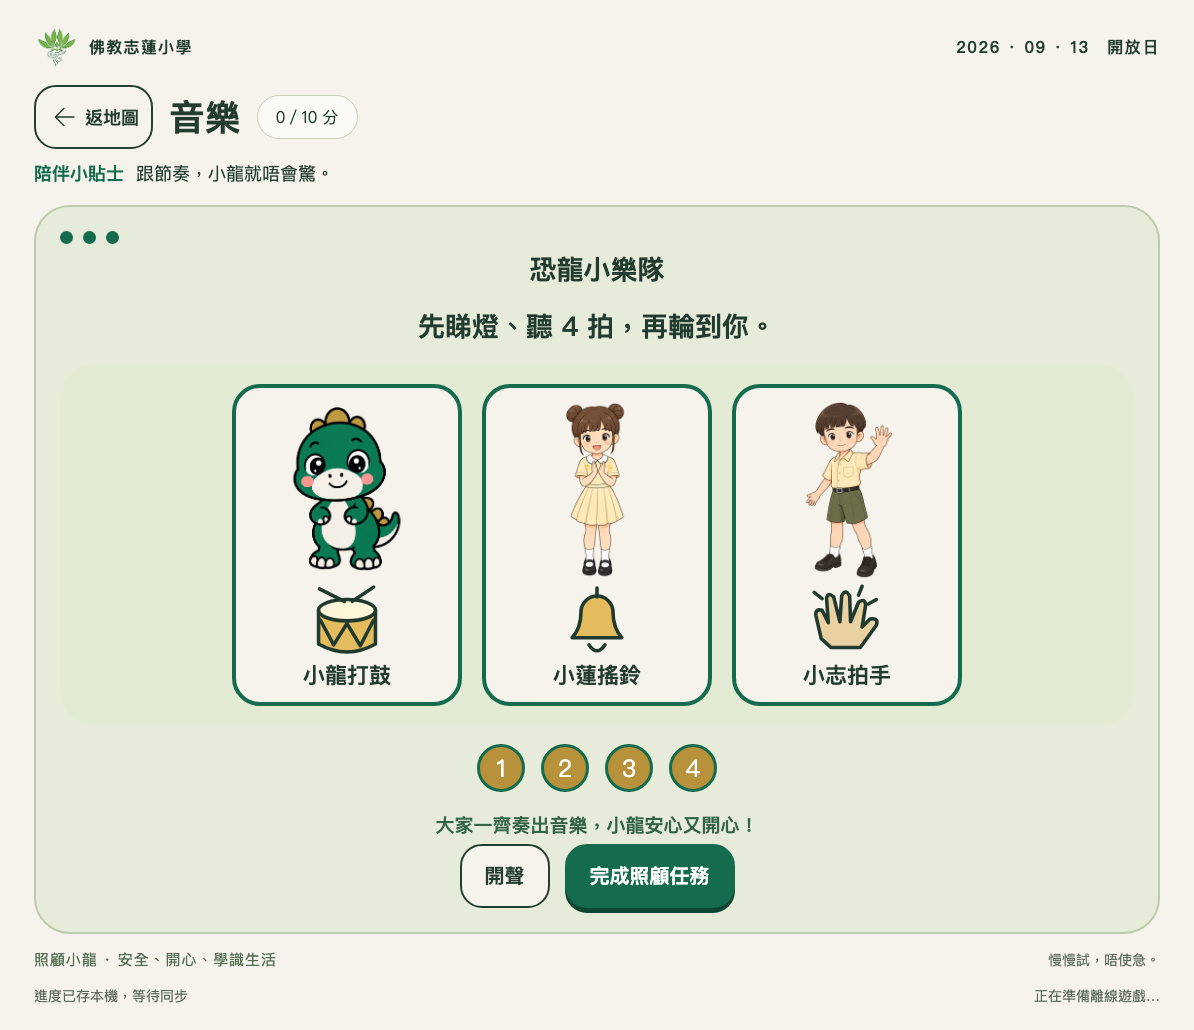
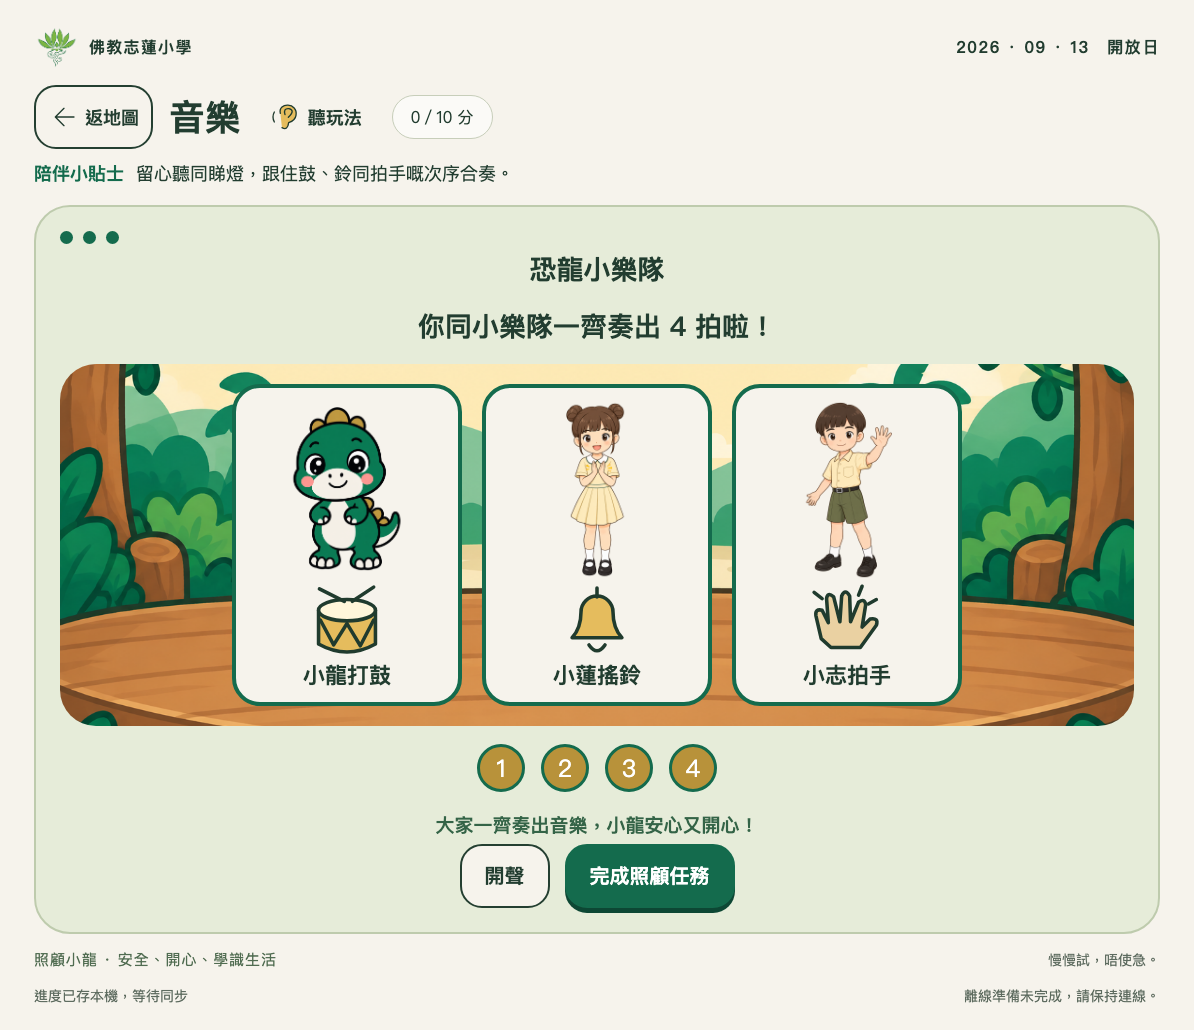
feat: add forest music stage and document pose model license

diff --git a/sw.js b/sw.js
@@ -1,7 +1,7 @@
 // Generated precache manifest. Rebuild whenever local assets change.
-const CACHE='dino-island-b6a5a6f61c4b';
+const CACHE='dino-island-e588b6e10618';
 const BASE=new URL('./',self.location.href);
-const ASSETS=["board/board.css","board/board.js","board/img/board-skin.png","board/index.html","hub/app.js","hub/audio/en/actions/freeze.wav","hub/audio/en/actions/hands.wav","hub/audio/en/actions/jump.wav","hub/audio/en/actions/left.wav","hub/audio/en/actions/right.wav","hub/audio/en/actions/sit.wav","hub/audio/en/actions/stand.wav","hub/audio/yue/actions/freeze.wav","hub/audio/yue/actions/hands.wav","hub/audio/yue/actions/left.wav","hub/audio/yue/actions/right.wav","hub/audio/yue/actions/sit.wav","hub/audio/yue/characters/fire.wav","hub/audio/yue/characters/moon.wav","hub/audio/yue/characters/mountain.wav","hub/audio/yue/characters/sun.wav","hub/audio/yue/characters/water.wav","hub/audio/yue/characters/wood.wav","hub/audio/yue/common/complete.wav","hub/audio/yue/common/hint.wav","hub/audio/yue/common/retry.wav","hub/audio/yue/common/welcome.wav","hub/audio/yue/intro/art.wav","hub/audio/yue/intro/chinese.wav","hub/audio/yue/intro/computing.wav","hub/audio/yue/intro/english.wav","hub/audio/yue/intro/general.wav","hub/audio/yue/intro/humanities.wav","hub/audio/yue/intro/mandarin.wav","hub/audio/yue/intro/math.wav","hub/audio/yue/intro/music.wav","hub/audio/yue/intro/pe.wav","hub/audio/yue/intro/science.wav","hub/audio/zh-CN/greetings/goodbye.wav","hub/audio/zh-CN/greetings/hello.wav","hub/audio/zh-CN/greetings/morning.wav","hub/audio/zh-CN/greetings/please.wav","hub/audio/zh-CN/greetings/thanks.wav","hub/audio/zh-CN/greetings/welcome.wav","hub/certificate.js","hub/games.js","hub/img/chars/dino-baby-eat.png","hub/img/chars/dino-baby-sleep.png","hub/img/chars/dino-baby.png","hub/img/chars/landmark-hatch.png","hub/img/chars/landmark-longneck.png","hub/img/chars/landmark-triceratops.png","hub/img/chars/xiaolian-clap.png","hub/img/chars/xiaolian-color.png","hub/img/chars/xiaolian-highfive.png","hub/img/chars/xiaolian-point.png","hub/img/chars/xiaolian-welcome.png","hub/img/chars/xiaolian-write.png","hub/img/chars/xiaozhi-highfive.png","hub/img/chars/xiaozhi-jump.png","hub/img/chars/xiaozhi-run.png","hub/img/chars/xiaozhi-sit.png","hub/img/chars/xiaozhi-step.png","hub/img/chars/xiaozhi-stretch.png","hub/img/chars/xiaozhi-tablet.png","hub/img/chars/xiaozhi-welcome.png","hub/img/games/art/egg-studio.png","hub/img/games/general/bedtime.png","hub/img/games/general/daytime.png","hub/img/games/general/morning.png","hub/img/games/humanities/river-centre.png","hub/img/games/humanities/safe-forest.png","hub/img/games/humanities/volcano-edge.png","hub/img/games/math/feeding-garden.png","hub/img/games/science/excavation.png","hub/img/map/island-path.png","hub/img/ui/cert-frame.png","hub/index.html","hub/modules/art.js","hub/modules/chinese-scenes.js","hub/modules/computing.js","hub/modules/fossil-art.js","hub/modules/general.js","hub/modules/humanities.js","hub/modules/mandarin.js","hub/modules/math.js","hub/modules/motion.js","hub/modules/music.js","hub/modules/science.js","hub/park-guides.js","index.html","setup/index.html","shared/certificate-link.js","shared/config.js","shared/core.js","shared/game-clock-gate.js","shared/game-state.js","shared/icons.js","shared/img/school-logo.png","shared/models/pose-landmarker-lite-v1.task","shared/network.js","shared/offline.js","shared/pose-actions.js","shared/pose-camera.js","shared/qrcode.js","shared/recorder.js","shared/sequence.js","shared/storage.js","shared/style.css","shared/vendor/mediapipe/vision-bundle.js","shared/vendor/mediapipe/wasm/vision_wasm_internal.js","shared/vendor/mediapipe/wasm/vision_wasm_internal.wasm","shared/vendor/mediapipe/wasm/vision_wasm_nosimd_internal.js","shared/vendor/mediapipe/wasm/vision_wasm_nosimd_internal.wasm","shared/voice.js","hub/","board/","setup/"].map(p=>new URL(p,BASE).href);
+const ASSETS=["board/board.css","board/board.js","board/img/board-skin.png","board/index.html","hub/app.js","hub/audio/en/actions/freeze.wav","hub/audio/en/actions/hands.wav","hub/audio/en/actions/jump.wav","hub/audio/en/actions/left.wav","hub/audio/en/actions/right.wav","hub/audio/en/actions/sit.wav","hub/audio/en/actions/stand.wav","hub/audio/yue/actions/freeze.wav","hub/audio/yue/actions/hands.wav","hub/audio/yue/actions/left.wav","hub/audio/yue/actions/right.wav","hub/audio/yue/actions/sit.wav","hub/audio/yue/characters/fire.wav","hub/audio/yue/characters/moon.wav","hub/audio/yue/characters/mountain.wav","hub/audio/yue/characters/sun.wav","hub/audio/yue/characters/water.wav","hub/audio/yue/characters/wood.wav","hub/audio/yue/common/complete.wav","hub/audio/yue/common/hint.wav","hub/audio/yue/common/retry.wav","hub/audio/yue/common/welcome.wav","hub/audio/yue/intro/art.wav","hub/audio/yue/intro/chinese.wav","hub/audio/yue/intro/computing.wav","hub/audio/yue/intro/english.wav","hub/audio/yue/intro/general.wav","hub/audio/yue/intro/humanities.wav","hub/audio/yue/intro/mandarin.wav","hub/audio/yue/intro/math.wav","hub/audio/yue/intro/music.wav","hub/audio/yue/intro/pe.wav","hub/audio/yue/intro/science.wav","hub/audio/zh-CN/greetings/goodbye.wav","hub/audio/zh-CN/greetings/hello.wav","hub/audio/zh-CN/greetings/morning.wav","hub/audio/zh-CN/greetings/please.wav","hub/audio/zh-CN/greetings/thanks.wav","hub/audio/zh-CN/greetings/welcome.wav","hub/certificate.js","hub/games.js","hub/img/chars/dino-baby-eat.png","hub/img/chars/dino-baby-sleep.png","hub/img/chars/dino-baby.png","hub/img/chars/landmark-hatch.png","hub/img/chars/landmark-longneck.png","hub/img/chars/landmark-triceratops.png","hub/img/chars/xiaolian-clap.png","hub/img/chars/xiaolian-color.png","hub/img/chars/xiaolian-highfive.png","hub/img/chars/xiaolian-point.png","hub/img/chars/xiaolian-welcome.png","hub/img/chars/xiaolian-write.png","hub/img/chars/xiaozhi-highfive.png","hub/img/chars/xiaozhi-jump.png","hub/img/chars/xiaozhi-run.png","hub/img/chars/xiaozhi-sit.png","hub/img/chars/xiaozhi-step.png","hub/img/chars/xiaozhi-stretch.png","hub/img/chars/xiaozhi-tablet.png","hub/img/chars/xiaozhi-welcome.png","hub/img/games/art/egg-studio.png","hub/img/games/general/bedtime.png","hub/img/games/general/daytime.png","hub/img/games/general/morning.png","hub/img/games/humanities/river-centre.png","hub/img/games/humanities/safe-forest.png","hub/img/games/humanities/volcano-edge.png","hub/img/games/math/feeding-garden.png","hub/img/games/music/music-stage.png","hub/img/games/science/excavation.png","hub/img/map/island-path.png","hub/img/ui/cert-frame.png","hub/index.html","hub/modules/art.js","hub/modules/chinese-scenes.js","hub/modules/computing.js","hub/modules/fossil-art.js","hub/modules/general.js","hub/modules/humanities.js","hub/modules/mandarin.js","hub/modules/math.js","hub/modules/motion.js","hub/modules/music.js","hub/modules/science.js","hub/park-guides.js","index.html","setup/index.html","shared/certificate-link.js","shared/config.js","shared/core.js","shared/game-clock-gate.js","shared/game-state.js","shared/icons.js","shared/img/school-logo.png","shared/models/pose-landmarker-lite-v1.task","shared/network.js","shared/offline.js","shared/pose-actions.js","shared/pose-camera.js","shared/qrcode.js","shared/recorder.js","shared/sequence.js","shared/storage.js","shared/style.css","shared/vendor/mediapipe/vision-bundle.js","shared/vendor/mediapipe/wasm/vision_wasm_internal.js","shared/vendor/mediapipe/wasm/vision_wasm_internal.wasm","shared/vendor/mediapipe/wasm/vision_wasm_nosimd_internal.js","shared/vendor/mediapipe/wasm/vision_wasm_nosimd_internal.wasm","shared/voice.js","hub/","board/","setup/"].map(p=>new URL(p,BASE).href);
 self.addEventListener('install',e=>e.waitUntil(caches.open(CACHE).then(c=>c.addAll(ASSETS))));
 self.addEventListener('activate',e=>e.waitUntil(Promise.all([caches.keys().then(keys=>Promise.all(keys.filter(k=>k.startsWith('dino-island-')&&k!==CACHE).map(k=>caches.delete(k)))),self.clients.claim()])));
 self.addEventListener('message',e=>{if(e.data?.type!=='CHECK_OFFLINE'||!e.ports[0])return;e.waitUntil(caches.open(CACHE).then(async c=>{const present=await Promise.all(ASSETS.map(url=>c.match(url)));e.ports[0].postMessage({type:'OFFLINE_STATUS',version:CACHE,complete:present.every(Boolean),missing:present.filter(r=>!r).length,total:ASSETS.length});}).catch(()=>e.ports[0].postMessage({type:'OFFLINE_STATUS',complete:false,missing:ASSETS.length,total:ASSETS.length})));});

diff --git a/shared/style.css b/shared/style.css
@@ -40,7 +40,7 @@
 .expedition-intro{text-align:center;font-size:26px;padding:20px}.expedition-intro>.icon{width:150px;height:150px}.expedition-camp{position:relative;overflow:hidden;display:flex;justify-content:center;align-items:end;gap:18px;min-height:280px;padding:28px 16px;background:#e0ebce url(../hub/img/games/humanities/safe-forest.png) center/cover;border-radius:40px}.expedition-camp>.character{width:150px;height:190px;object-fit:contain}.expedition-improvements{display:flex;align-items:end;gap:12px}.expedition-improvements>span{background:#f6f3eceb;border-radius:18px;padding:8px;display:flex;align-items:center;flex-direction:column;font-size:20px}.expedition-improvements .icon{width:90px;height:90px}.expedition-options .choice{width:220px;height:160px;display:flex;flex-direction:column;align-items:center;justify-content:center;font-size:24px}.expedition-options .icon{width:100px;height:100px}.expedition-hint{outline:6px solid #b8923a;outline-offset:3px}
 @media(max-width:600px){.expedition-camp{gap:4px;padding:8px;min-height:165px}.expedition-camp>.character{width:65px;height:140px}.expedition-improvements{gap:4px}.expedition-improvements>span{font-size:13px;max-width:58px;text-align:center}.expedition-improvements .icon{width:52px;height:52px}.expedition-options{gap:8px}.expedition-options .choice{width:92px;min-width:80px;height:140px;font-size:17px;padding:6px}.expedition-options .icon{width:64px;height:64px}}
 
-.band-stage{display:flex;justify-content:center;gap:20px;padding:20px;background:#e4ebd4;border-radius:36px}.band-player{display:flex;flex-direction:column;align-items:center;width:230px;background:#f6f3ec;border:4px solid #146b4d;border-radius:28px;padding:12px;font-size:22px;transition:background .1s,transform .1s}.band-player:disabled{opacity:1;cursor:default}.band-player>.character{width:140px;height:180px;object-fit:contain}.band-instrument .icon{width:80px;height:80px}.band-lit{background:#f8d36e!important;transform:translateY(-7px);box-shadow:0 0 0 6px #b8923a}.band-hint{outline:6px dashed #b8923a;outline-offset:3px}.band-progress{display:flex;justify-content:center;gap:16px;margin:18px}.band-progress>span{display:grid;place-items:center;width:48px;height:48px;border:3px solid #146b4d;border-radius:50%;font-size:24px}.band-progress>.done{background:#b8923a;color:white}
+.band-stage{display:flex;justify-content:center;gap:20px;padding:20px;background:#e4ebd4 url('../hub/img/games/music/music-stage.png') center/cover no-repeat;border-radius:36px}.band-player{display:flex;flex-direction:column;align-items:center;width:230px;background:#f6f3ec;border:4px solid #146b4d;border-radius:28px;padding:12px;font-size:22px;transition:background .1s,transform .1s}.band-player:disabled{opacity:1;cursor:default}.band-player>.character{width:140px;height:180px;object-fit:contain}.band-instrument .icon{width:80px;height:80px}.band-lit{background:#f8d36e!important;transform:translateY(-7px);box-shadow:0 0 0 6px #b8923a}.band-hint{outline:6px dashed #b8923a;outline-offset:3px}.band-lit .band-instrument{animation:band-tap .4s ease}.band-lit[data-band="1"] .band-instrument{animation:band-ring .4s ease}.band-lit>.character{animation:band-bounce .4s ease}.band-celebrating .character{animation:band-bounce .65s ease 2}.band-celebrating [data-band="1"] .character{animation-delay:.12s}.band-celebrating [data-band="2"] .character{animation-delay:.24s}@keyframes band-tap{50%{transform:scale(.88) translateY(5px)}}@keyframes band-ring{25%{transform:rotate(-17deg)}75%{transform:rotate(17deg)}}@keyframes band-bounce{50%{transform:translateY(-9px)}}.band-progress{display:flex;justify-content:center;gap:16px;margin:18px}.band-progress>span{display:grid;place-items:center;width:48px;height:48px;border:3px solid #146b4d;border-radius:50%;font-size:24px}.band-progress>.done{background:#b8923a;color:white}
 @media(max-width:600px){.band-stage{gap:8px;padding:10px}.band-player{width:30%;font-size:16px;padding:6px;border-width:3px}.band-player>.character{width:80px;max-width:100%;height:125px}.band-instrument .icon{width:55px;height:55px}}
 
 .egg-studio{display:flex;justify-content:center;align-items:end;gap:20px;background:#f6f3ec url('../hub/img/games/art/egg-studio.png') center/cover no-repeat;border-radius:32px;padding:12px}.egg-guide{width:135px;height:220px;object-fit:contain}.egg-artwork{width:280px;position:relative}.egg-artwork>svg{display:block;width:100%;touch-action:none}.egg-crack{opacity:0}.art-colors,.art-tools{display:flex;justify-content:center;gap:12px;margin:14px}.art-colors button{width:64px;height:64px;min-width:64px;border-radius:50%;border:3px solid #203b2e;font-size:32px;color:#203b2e}.art-modes button{display:flex;align-items:center;gap:8px}.art-modes svg{width:38px;height:38px}.art-tools button{width:100px;min-height:84px;display:flex;flex-direction:column;align-items:center;font-size:18px}.art-tools svg{width:46px;height:46px}.art-modes [aria-pressed=true],.art-tools [aria-pressed=true]{background:#f5d479;outline:3px solid #b8923a}.art-colors [aria-pressed=true]{outline:4px solid #b8923a;outline-offset:3px}.is-hatching{animation:egg-shake .35s ease-in-out infinite;filter:drop-shadow(0 0 18px #f0cd62)}.is-hatching .egg-crack{animation:egg-crack 2s forwards}.hatch-dino{clip-path:inset(0 0 30% 0);position:absolute;width:80%;height:85%;object-fit:contain;left:10%;top:0;animation:egg-emerge .7s ease-out}.has-hatched>svg{clip-path:polygon(0 53%,15% 49%,29% 56%,42% 48%,55% 57%,68% 48%,85% 55%,100% 50%,100% 100%,0 100%);position:relative}.has-hatched .egg-crack{opacity:1}

diff --git a/hub/modules/music.js b/hub/modules/music.js
@@ -19,7 +19,7 @@ export function mountMusic(root,state,save,finish){
  function flash(i){const button=root.querySelector(`[data-band="${i}"]`);button?.classList.add('band-lit');tone(i);later(()=>button?.classList.remove('band-lit'),400);}
  function render(){
   const pattern=patterns[state.round];
-  root.innerHTML=`<div class="rounds" aria-label="第 ${state.round+1} 回合，共三回合">${patterns.map((_,i)=>`<span class="round-dot ${i<=state.round?'done':''}"></span>`).join('')}</div><h2 class="game-instruction">恐龍小樂隊</h2><p class="game-instruction">先睇燈、聽 ${pattern.length} 拍，再輪到你。</p><div class="band-stage">${['dino-baby','xiaolian-clap','xiaozhi-highfive'].map((file,i)=>`<button class="band-player" data-band="${i}" aria-label="${names[i]}" disabled><img class="character" src="img/chars/${file}.png" alt="${names[i]}"><span class="band-instrument">${instrument(i)}</span><span>${names[i]}</span></button>`).join('')}</div><div class="band-progress" aria-label="跟拍進度">${pattern.map((_,i)=>`<span data-beat="${i}" class="${state.roundDone?'done':''}">${i+1}</span>`).join('')}</div><p class="feedback" role="status">${state.roundDone?'大家一齊奏出音樂，小龍安心又開心！':'按示範開始，燈光會話你知輪到邊個。'}</p><div class="actions"><button id="band-demo" ${state.roundDone?'hidden':''}>睇燈聽示範</button><button id="band-mute" aria-pressed="${state.muted}">${state.muted?'開聲':'關聲'}</button>${!state.roundDone&&hintLevel(state.attempts)==='guided'?'<button id="band-help">一步一步跟燈</button>':''}${state.roundDone?`<button class="primary" id="band-next">${state.round===2?'完成照顧任務':'下一段音樂'}</button>`:''}</div>`;
+  root.innerHTML=`<div class="rounds" aria-label="第 ${state.round+1} 回合，共三回合">${patterns.map((_,i)=>`<span class="round-dot ${i<=state.round?'done':''}"></span>`).join('')}</div><h2 class="game-instruction">恐龍小樂隊</h2><p class="game-instruction">${state.roundDone?`你同小樂隊一齊奏出 ${pattern.length} 拍啦！`:`先睇燈、聽 ${pattern.length} 拍，再輪到你。`}</p><div class="band-stage ${state.roundDone?'band-celebrating':''}">${['dino-baby','xiaolian-clap','xiaozhi-highfive'].map((file,i)=>`<button class="band-player" data-band="${i}" aria-label="${names[i]}" disabled><img class="character" src="img/chars/${file}.png" alt="${names[i]}"><span class="band-instrument">${instrument(i)}</span><span>${names[i]}</span></button>`).join('')}</div><div class="band-progress" aria-label="跟拍進度">${pattern.map((_,i)=>`<span data-beat="${i}" class="${state.roundDone?'done':''}">${i+1}</span>`).join('')}</div><p class="feedback" role="status">${state.roundDone?'大家一齊奏出音樂，小龍安心又開心！':'按示範開始，燈光會話你知輪到邊個。'}</p><div class="actions"><button id="band-demo" ${state.roundDone?'hidden':''}>睇燈聽示範</button><button id="band-mute" aria-pressed="${state.muted}">${state.muted?'開聲':'關聲'}</button>${!state.roundDone&&hintLevel(state.attempts)==='guided'?'<button id="band-help">一步一步跟燈</button>':''}${state.roundDone?`<button class="primary" id="band-next">${state.round===2?'完成照顧任務':'下一段音樂'}</button>`:''}</div>`;
   root.querySelector('#band-mute').onclick=()=>{state.muted=!state.muted;save();if(state.muted)context?.suspend().catch(()=>{});const b=root.querySelector('#band-mute');b.textContent=state.muted?'開聲':'關聲';b.setAttribute('aria-pressed',String(state.muted));};
   root.querySelector('#band-demo').onclick=()=>demo();
   root.querySelector('#band-help')?.addEventListener('click',()=>demo(true));

diff --git a/docs/GAME-UPDATE-V2.md b/docs/GAME-UPDATE-V2.md
@@ -208,3 +208,14 @@
 - 工具盤按需求提供紅、黃、藍、綠、紫、橙；形狀為圓、三角、方、星；印章為腳印、葉、火山、星。舊作品的奶油白／心／花仍可渲染，沒有重寫舊作品。
 - art-browser 驗證六色、指定四形狀及四印章、新背景載入、既有創作／取消／孵化流程與手機寬度。已檢视畫室截圖；素材清單標示場景及向量工具已接入，仍保留未完成姿勢。
 - 建置 118 個離線資產；offline 通過全部 11 路由及素材、離線重開、補傳佇列、普通證書及專案子路徑。正式站未更新。
+
+## 音樂舞台與動態回饋
+- 內建 image_gen 製作 music-stage.png，森林木舞台配奶油／綠／金；原圖直接複製，三個演奏熱區保持獨立。提示與來源在 music-visual-prompts.md。
+- 跟燈時樂器有敲擊／搖鈴效果、角色跟拍；回合完成兩次短跳，減少動態設定停用。完成文案改述合奏成果，不再叫玩家等待下一次輪流。
+- 新小龍打鼓草稿姿勢已生成，hasAlpha 檢查失敗（棋盤格是像素）；只存 design/game-assets/drafts/dino-drum-v1.png，未接入，三個正式演奏姿勢仍未完成。
+- music-browser 驗證静音 2／3／4 拍、示範鎖定、錯誤提示、逐步燈光、離頁取消、重開成果、減少動態、完成文案及手機寬度；已檢視桌面與手機舞台截圖。
+
+## 姿態模型發布條款核實
+- Google 官方 Pose Landmarker 指南將 Lite 模型連到 BlazePose GHUM 3D 模型卡；模型卡第二頁明列 Apache License, Version 2.0。此為模型本身的發布資料，不再只依 SDK 授權推斷。
+- docs/pose-dependencies.json 保存證據及日期，shared/models/LICENSE 與 NOTICE.txt 保存授權及出處；已確認 dist 一併包含。模型未修改，未宣稱訓練資料獨立審計或幼兒實機準確度。
+- 官方證據：https://developers.google.com/edge/mediapipe/solutions/vision/pose_landmarker 及 https://storage.googleapis.com/mediapipe-assets/Model%20Card%20BlazePose%20GHUM%203D.pdf 。

diff --git a/design/game-assets/music-visual-prompts.md b/design/game-assets/music-visual-prompts.md
@@ -1,0 +1,13 @@
+# 音樂站素材
+
+## 小龍打鼓草稿
+
+內建 image_gen；參考本專案 hub/img/chars/dino-baby.png。原始輸出複製至 design/game-assets/drafts/dino-drum-v1.png。sips 檢查 hasAlpha: no，棋盤格是實際像素，未接入遊戲，未當作完成透明角色。
+
+Use case: identity-preserve. Make a new full-body music-game pose of the exact supplied Dino Island baby dinosaur. This input is the school's current original approved character, not an old disputed reference. Preserve exactly its huge rounded green head, huge oval black-and-white eyes with two highlights, cream muzzle and tummy, two tiny nostrils, pink circle cheeks, short body and feet, three rounded gold head spines, gold tail plates, thick black outlines and gentle existing soft shading. Do NOT redesign or change species/proportions. New pose: standing happily behind one small cream and gold toy drum at waist height, one rounded wooden drumstick in each hand, left hand raised ready to tap, right stick just above the drum. Both feet and rightward curled tail fully visible. Friendly smile with closed mouth. Full body centered, clear silhouette, 8% empty margins. Square PNG sprite with genuinely transparent alpha background: no checkerboard drawn, no solid backdrop, no ground or shadow, no text, no musical notes, no other characters, no 3D. Intended to overlay on a forest music stage in an iPad game for age 3–5.
+
+## 森林舞台
+
+內建 image_gen；本專案 general/morning.png 只作畫風參考。
+
+undefined
